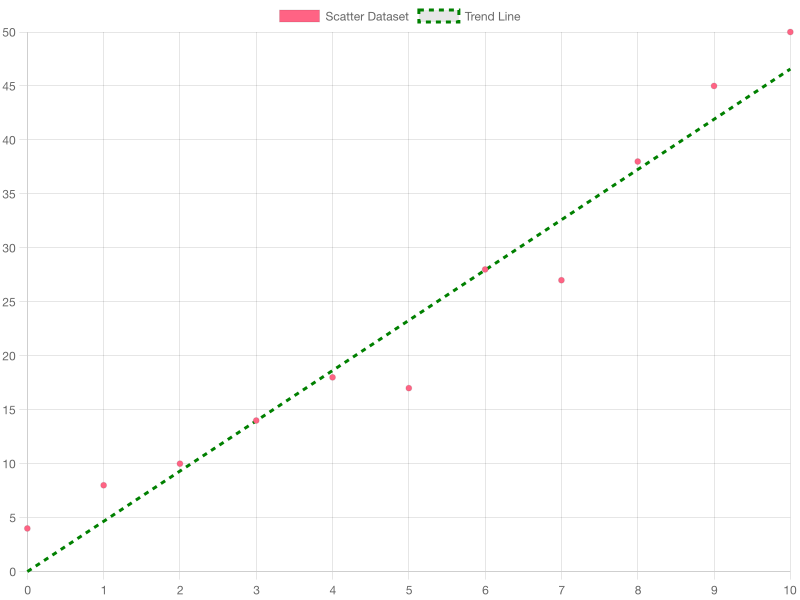
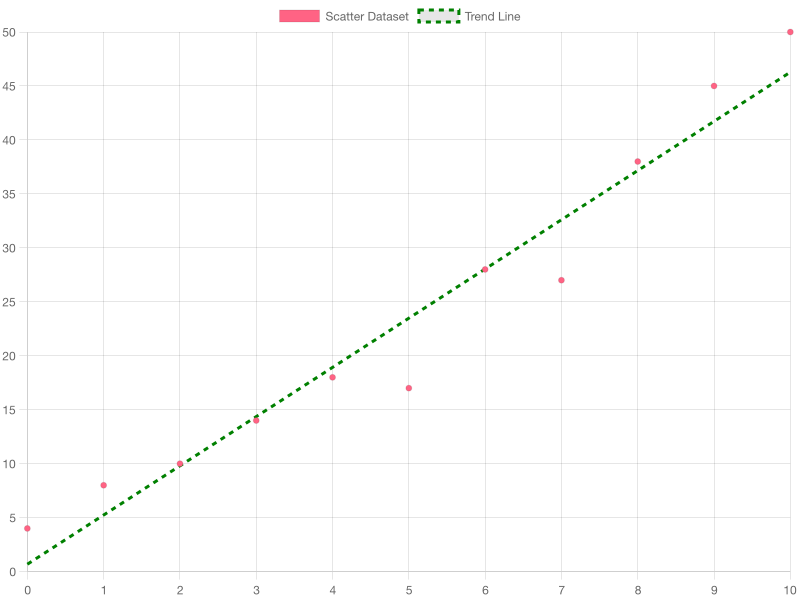
compelted linear regression

diff --git a/src/linear-regression/linear-regression.ts b/src/linear-regression/linear-regression.ts
@@ -5,34 +5,32 @@ const x = [0, 1, 2, 3, 4, 5, 6, 7, 8, 9, 10]; // Advertising Spend in $1000s
 const y = [4, 8, 10, 14, 18, 17, 28, 27, 38, 45, 50]; // Revenue in $1000s
 
 // Learning rate controls how much we adjust the weight in each step
-const learningRate = 0.1;
+const learningRate = 0.001;
 
 // Function to perform linear regression
 const linearRegression = () => {
   let weight = 0; // Start with an initial weight of 0
   let bias = 0; // Start with an initial bias of 0
-  const maxEpochs = 100; // Maximum number of iterations
-  const targetLoss = 15; // Stop if the loss is below this value
+  const epochs = 200; // Number of iterations
 
-  for (let epoch = 0; epoch < maxEpochs; epoch++) {
+  for (let epoch = 0; epoch < epochs; epoch++) {
     // Predict y values using the current weight
     const predictions = x.map((value) => value * weight + bias);
 
-    // Calculate the loss (error) between actual and predicted values
-    const error = calculateLoss(y, predictions);
-
+    // calculate the the gradient
+    const { weightGradient, biasGradient } = gradientDescent(
+      x,
+      y,
+      weight,
+      bias
+    );
     console.log(
-      `Epoch: ${epoch}, Loss: ${error.toFixed(2)}, Weight: ${weight.toFixed(2)}`
+      `Epoch ${epoch} weight gradient: ${weightGradient}, bias gradient: ${biasGradient}`
     );
 
-    // Stop if the error is small enough
-    if (error < targetLoss) {
-      break;
-    }
-
-    // Update the weight to reduce the error
-    weight += learningRate;
-    bias += learningRate;
+    // Update the weight and bias
+    weight -= weightGradient * learningRate;
+    bias -= biasGradient * learningRate;
   }
 
   return { weight, bias };
@@ -50,7 +48,31 @@ const calculateLoss = (actual: number[], predicted: number[]) => {
   return totalError / actual.length;
 };
 
+// Calculate the gradient of the loss function with respect to the weight and bias
+const gradientDescent = (
+  x: number[],
+  y: number[],
+  weight: number,
+  bias: number
+) => {
+  let weightSum = 0;
+  let biasSum = 0;
+
+  for (let i = 0; i < x.length; i++) {
+    weightSum += x[i] * (weight * x[i] + bias - y[i]);
+    biasSum += weight * x[i] + bias - y[i];
+  }
+  const weightGradient = (weightSum * 2) / x.length;
+  const biasGradient = (biasSum * 2) / x.length;
+  return { weightGradient, biasGradient };
+};
+
 const { weight, bias } = linearRegression();
+
+// final loss
+const predictions = x.map((value) => value * weight + bias);
+const loss = calculateLoss(y, predictions);
+console.log(`Final loss: ${loss}`);
 
 // Generate the y coordinates for the trend line
 const trendLineData = x.map((value) => value * weight + bias);

diff --git a/src/linear-regression/linear-regression-gd-no-bias.ts b/src/linear-regression/linear-regression-gd-no-bias.ts
@@ -10,9 +10,9 @@ const learningRate = 0.001;
 // Function to perform linear regression
 const linearRegression = () => {
   let weight = 0; // Start with an initial weight of 0
-  const maxEpochs = 200; // Maximum number of iterations
+  const epochs = 200; // Number of iterations
 
-  for (let epoch = 0; epoch < maxEpochs; epoch++) {
+  for (let epoch = 0; epoch < epochs; epoch++) {
     // Predict y values using the current weight
     const predictions = x.map((value) => value * weight);
 
